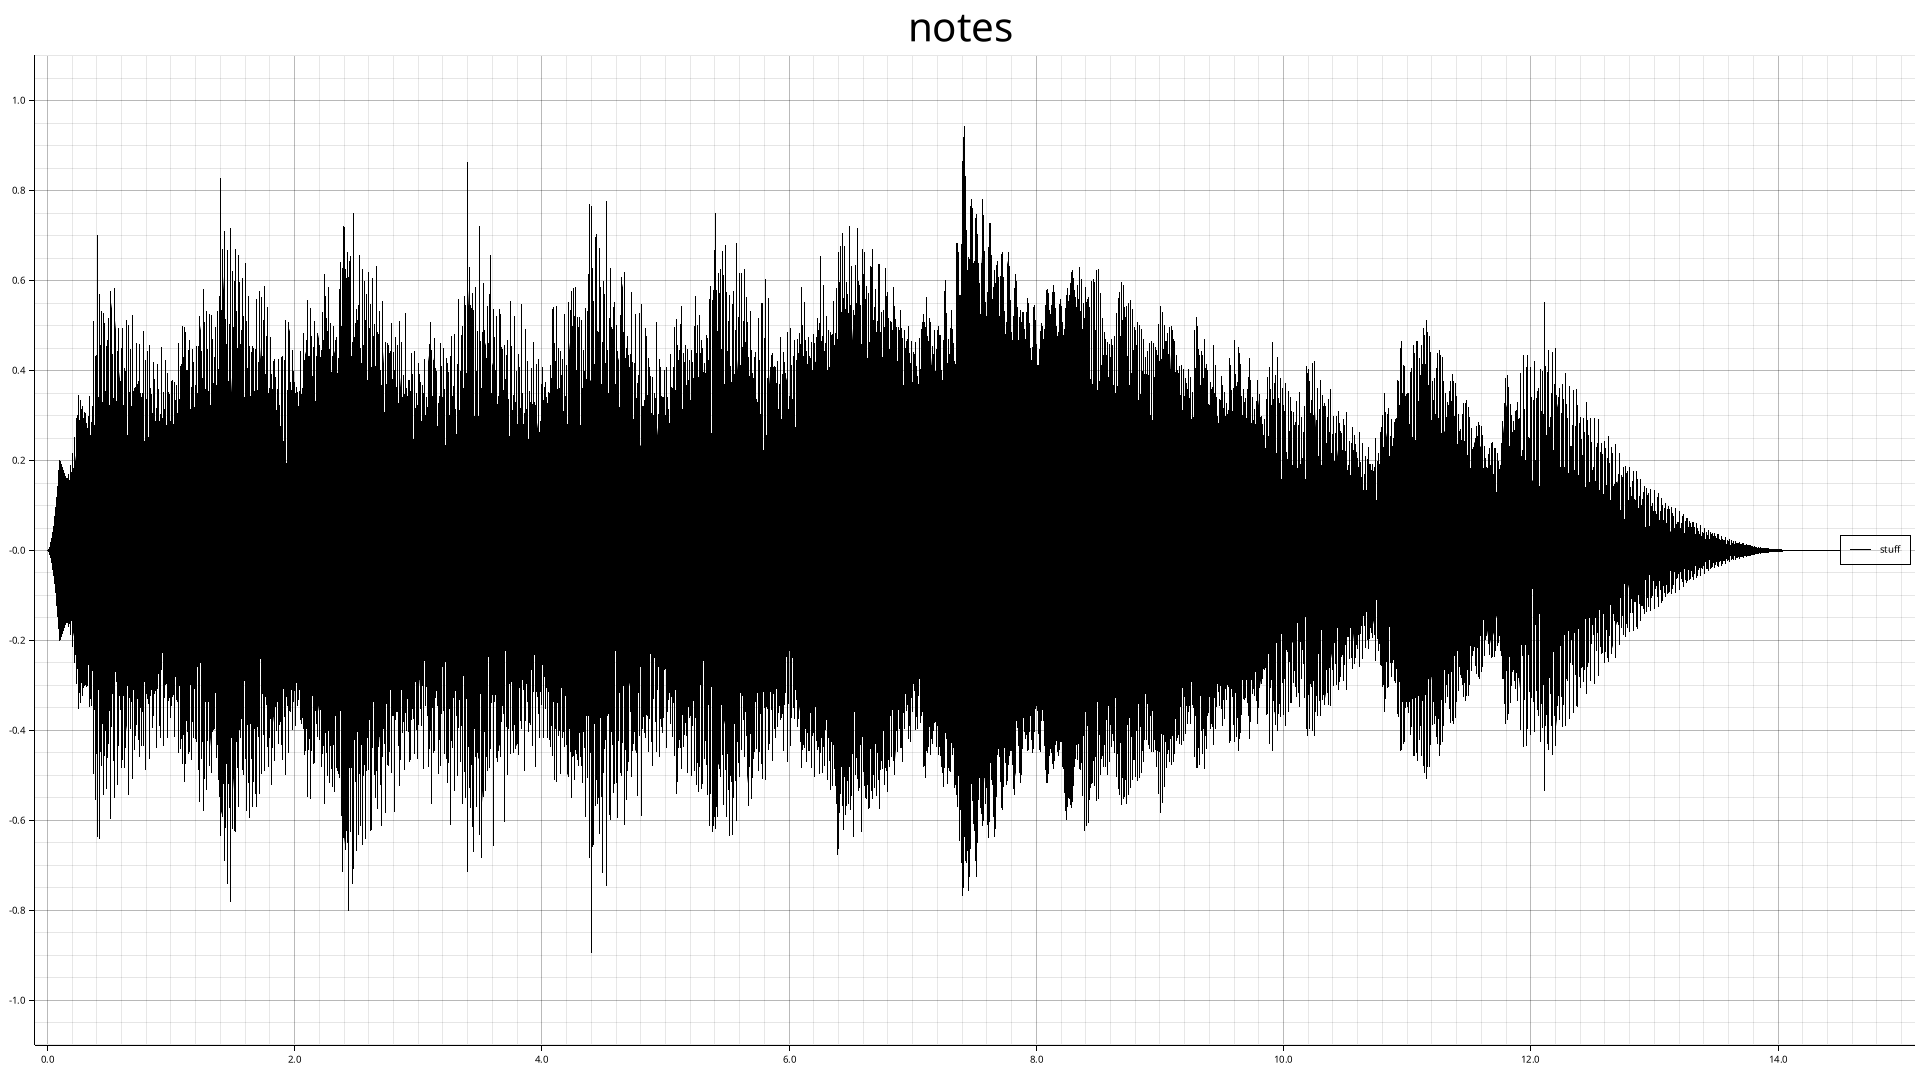
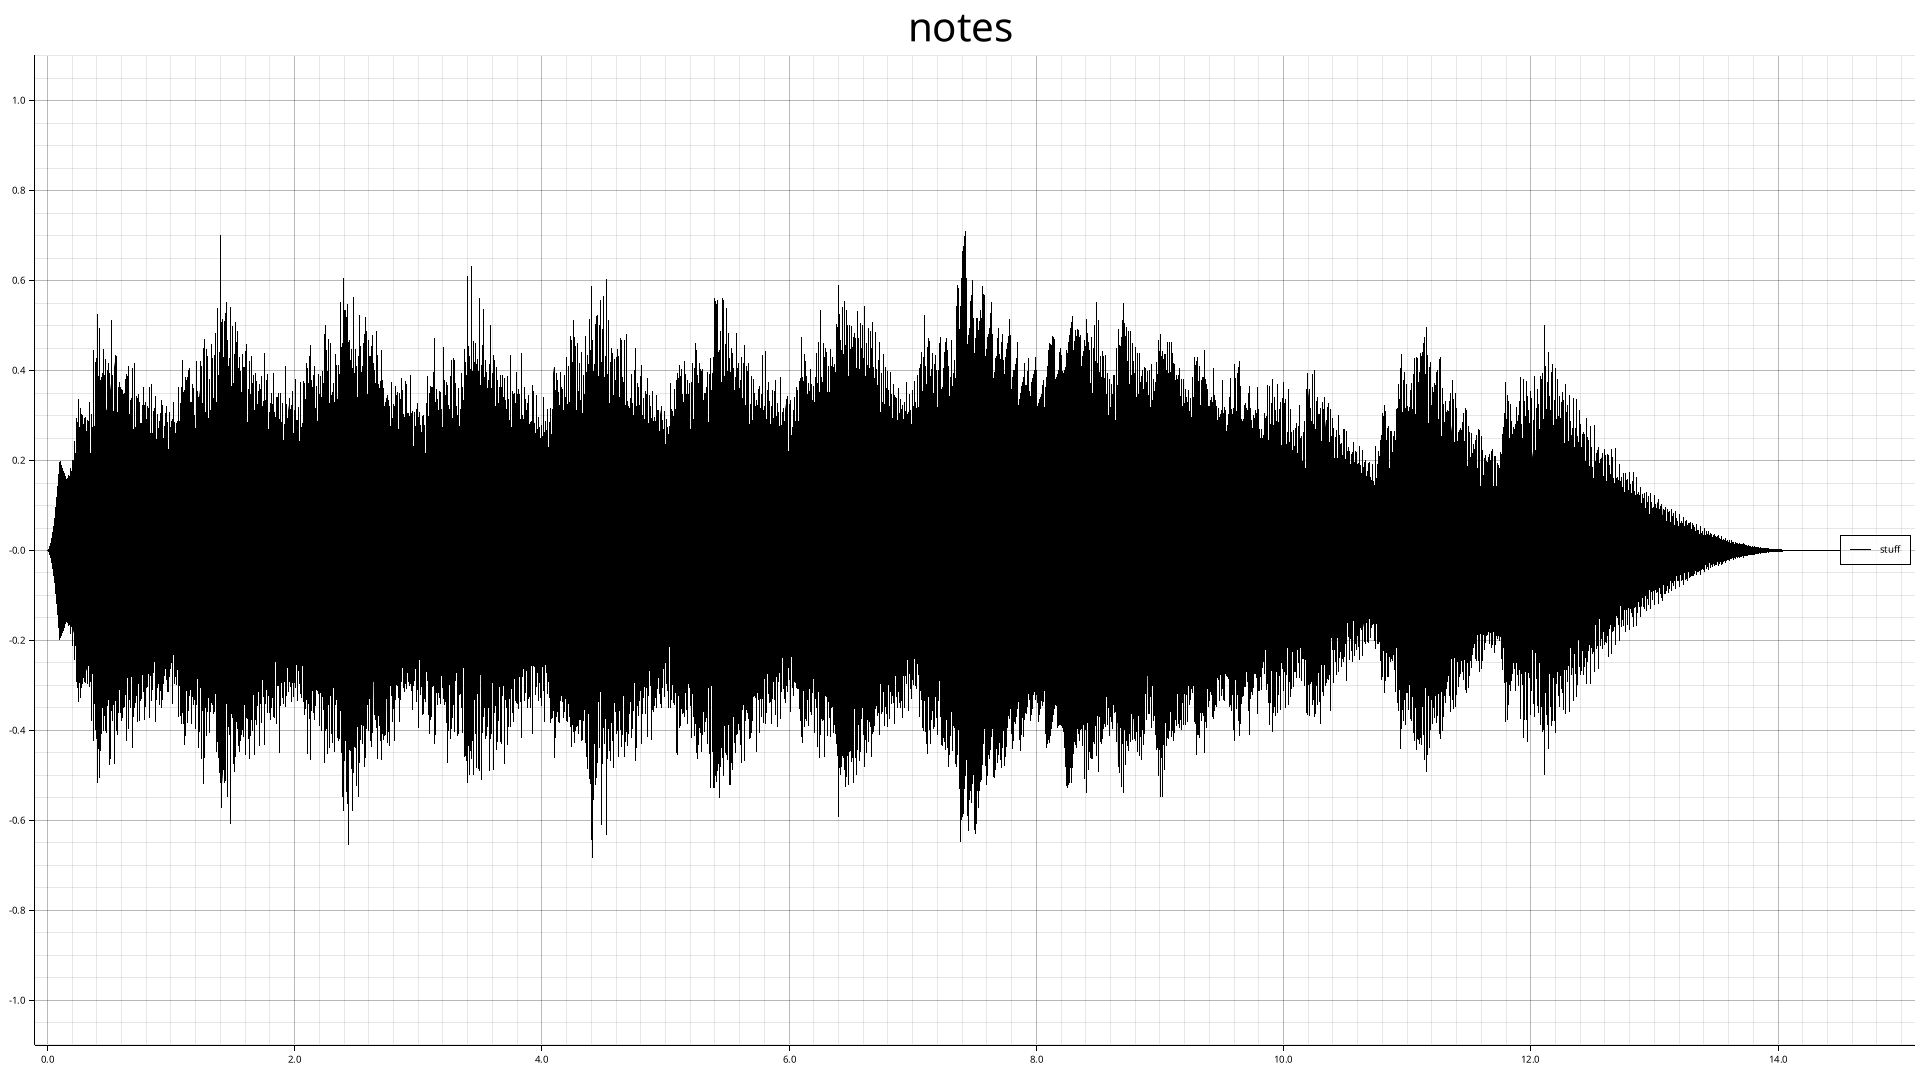
Added sawtooth

diff --git a/src/score.rs b/src/score.rs
@@ -1,5 +1,6 @@
 use crate::generator::ToneGenerator;
 use crate::generator::sine_wave::SineWave;
+use crate::generator::saw_tooth::SawTooth;
 
 // Purpose: Contains the Score struct, which is used to store a sequence of notes to be played.
 #[derive(Debug)]
@@ -10,10 +11,26 @@ pub struct Note {
     pub generator: Box<dyn ToneGenerator>,
 }
 
+pub enum GENERATORS {
+    SINE,
+    SAW,
+    SQUARE
+}
+
 impl Note {
     // Generate a note with a Sine generator
     pub fn new(frequency: f64, start_time: f64, duration: f64) -> Self {
-        Self { frequency, start_time, duration, generator: Box::new(SineWave::new(frequency, 1.0)) }
+        Self { frequency, start_time, duration, generator: Box::new(SawTooth::new(frequency, 1.0)) }
+    }
+
+    pub fn with_generator(mut self, generator: GENERATORS) -> Self {
+        match generator {
+            GENERATORS::SAW => {
+                self.generator = Box::from(SawTooth::new(self.frequency, 1.0));
+                self
+            },
+            _ => self
+        }
     }
 }
 

diff --git a/src/generator/saw_tooth.rs b/src/generator/saw_tooth.rs
@@ -1,0 +1,22 @@
+use crate::generator::ToneGenerator;
+
+#[derive(Debug)]
+pub struct SawTooth {
+    period: f64,
+    amplitude: f64,
+}
+
+impl SawTooth {
+    pub fn new(frequency: f64, amplitude: f64) -> Self {
+        Self {
+            period: 1.0 / frequency,
+            amplitude,
+        }
+    }
+}
+
+impl ToneGenerator for SawTooth {
+    fn generate(&self, time: f64) -> f64 {
+        2.0 * (( time / self.period ) - ((1.0 / 2.0) + (time / self.period)).floor())
+    }
+}

diff --git a/src/bin/music.rs b/src/bin/music.rs
@@ -92,7 +92,6 @@ fn main() {
         Note::new(TONES_FREQ[NOTES::DS as usize][5],  11.7, 0.2),
         Note::new(TONES_FREQ[NOTES::D as usize][5],  11.85, 0.2),
         Note::new(TONES_FREQ[NOTES::C as usize][5],  12.0, 0.2),
-
     ];
 
     let mut notes = notes.iter().map(|n| (n, envelope.attach(&n.generator))).collect::<Vec<(&Note, Generator)>>();

diff --git a/src/generator/mod.rs b/src/generator/mod.rs
@@ -9,3 +9,4 @@ pub trait ToneGenerator: std::fmt::Debug {
 pub use envelope::{Envelope, Generator};
 pub use segment::Segment;
 pub mod sine_wave;
+pub mod saw_tooth;
